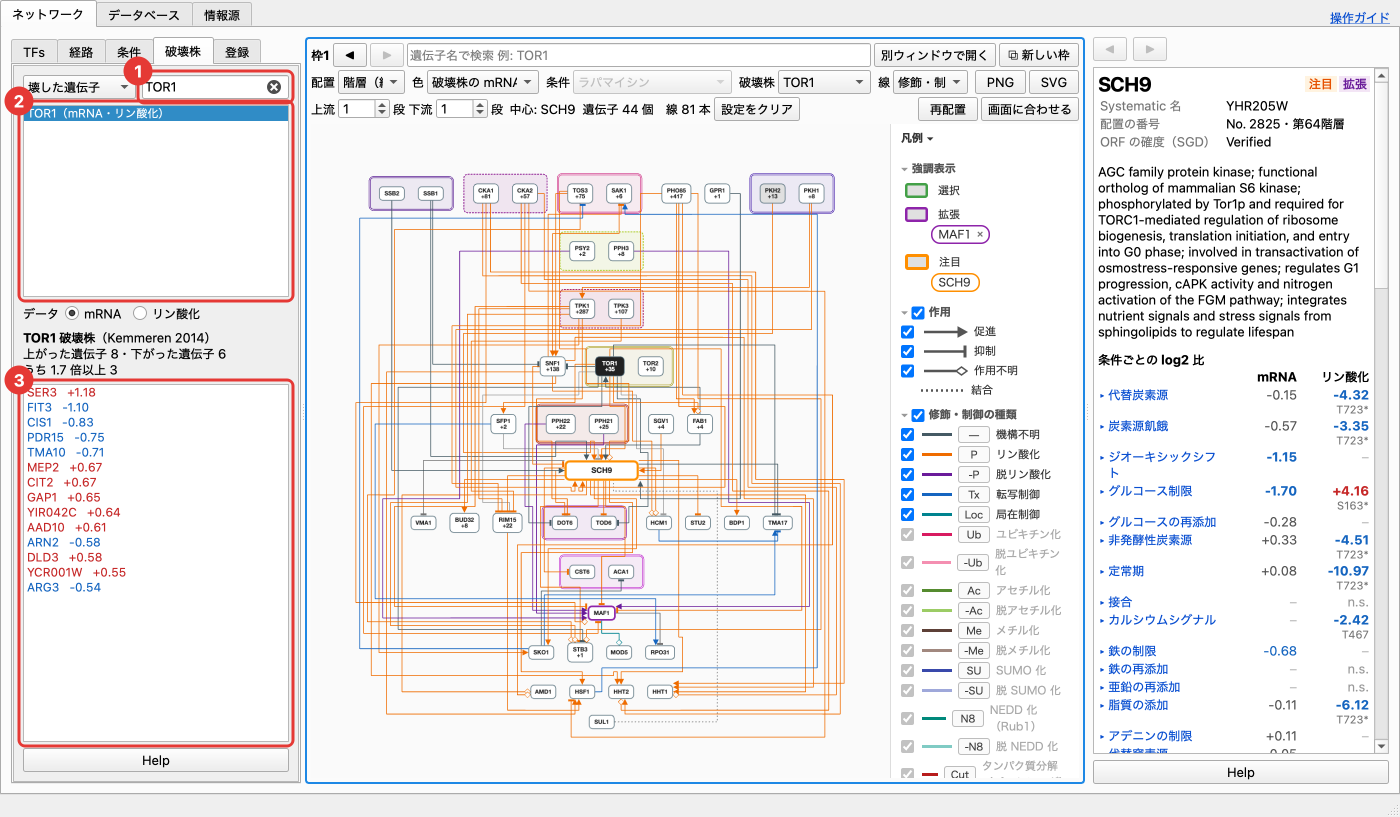
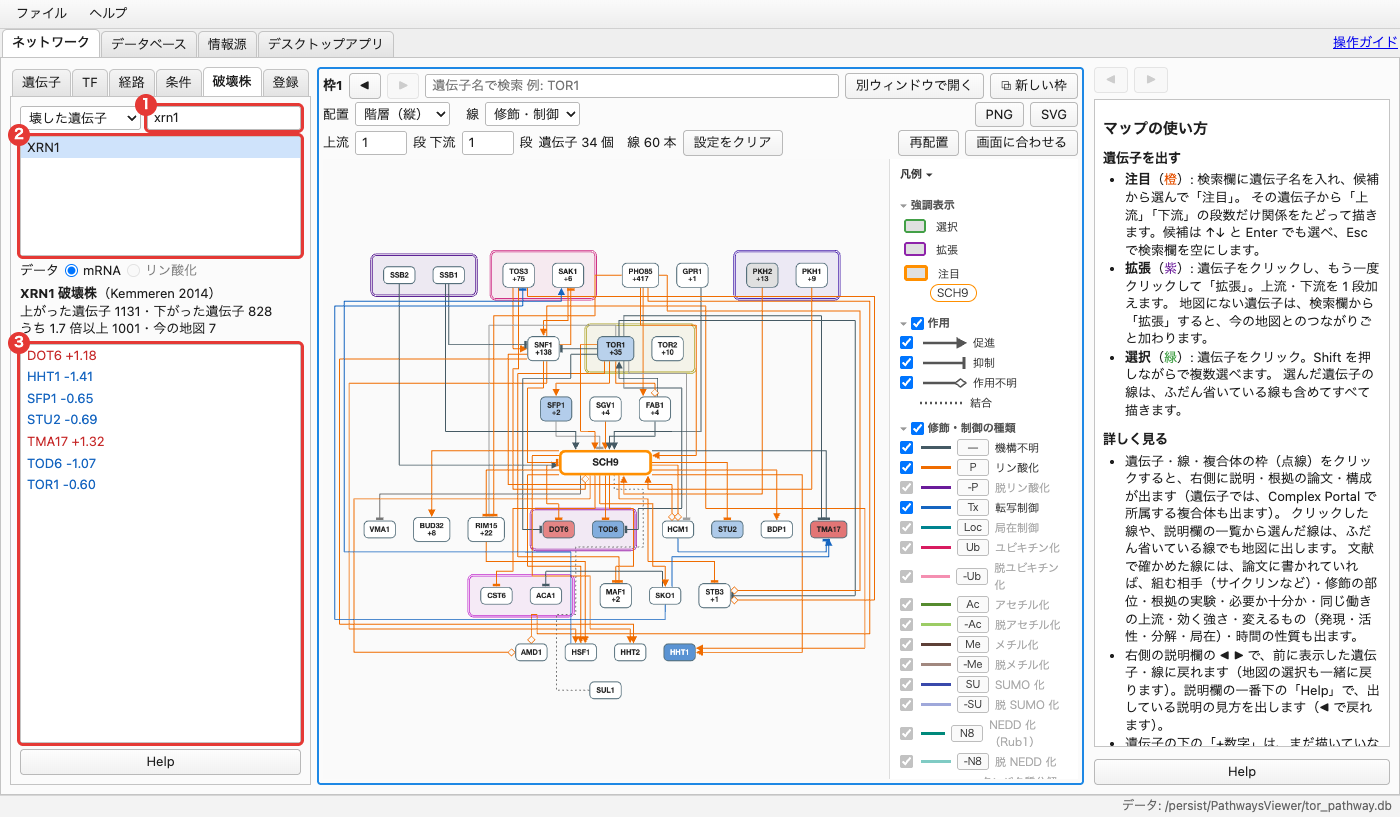
操作ガイドを今の画面に合わせる（遺伝子タブ・条件タブ・破壊株タブ・画面の写し）。破壊株で株を押しても色分けされないことがあったのを直す

Changed region(s): [[0.0, 0.0, 1.0, 1.0]]

diff --git a/tor_app/ui/network_tab.py b/tor_app/ui/network_tab.py
@@ -254,7 +254,9 @@ class NetworkTab(QWidget):
         i = self.del_strain_combo.findData(orf)
         if i < 0:
             return
+        self.del_strain_combo.blockSignals(True)
         self.del_strain_combo.setCurrentIndex(i)
+        self.del_strain_combo.blockSignals(False)
         self._color_by_deletion(kind)
 
     def data_js(self) -> str:
@@ -683,7 +685,11 @@ class NetworkTab(QWidget):
             kind = "del_mrna" if "mrna" in kinds else "del_phospho"
         i = self.del_strain_combo.findData(orf)
         if i >= 0:
+            # 株だけを先に変えると、色がまだ役割なので一覧の選択が外れてしまう（色を変えるときにまとめて送る）
+            self.del_strain_combo.blockSignals(True)
             self.del_strain_combo.setCurrentIndex(i)
+            self.del_strain_combo.blockSignals(False)
+            self._save_view()
         self._color_by_deletion(kind)
         self._sync_deletion_panel()
 

diff --git a/docs/MANUAL.md b/docs/MANUAL.md
@@ -6,6 +6,8 @@
 
 細かい決まり（並べ方・階層の決め方など）はアプリの中の「Help」ボタンと [README](../README.md) にまとめてあります。
 
+画面の写しのうち、1 章・6-1・6-4・6-5・7 章のものは今の版です。ほかは前の版のもので、地図の上の選択肢（「色」「条件」など）や左のタブの名前（「TFs」など）が今と違うことがありますが、操作は同じです。
+
 ---
 
 ## 目次
@@ -31,14 +33,14 @@
 
 ## 1. 画面の見取り図
 
-![起動直後の画面](manual/01_window.png)
+![SCH9 に注目した画面](manual/01_window.png)
 
 ネットワークタブの画面は、次の 5 つに分かれています（番号は画像の赤い丸）。
 
 | 番号 | 場所 | 役割 |
 |---|---|---|
-| 1 | **左側のタブ**（遺伝子・TF・経路・条件・破壊株・登録） | 地図に転写因子を加える、経路を調べる、条件で絞るなど、地図への追加の操作 |
-| 2 | **検索欄**（表示枠の上） | 遺伝子を探して地図に出す。下の 2 行は表示の設定 |
+| 1 | **左側のタブ**（遺伝子・TF・経路・条件・破壊株・登録） | 地図の遺伝子を一覧で選ぶ、転写因子を加える、経路を調べる、条件で目立たせる、破壊株の実測で色分けするなど |
+| 2 | **検索欄**（表示枠の上） | 遺伝子を探して地図に出す。下の 2 行は配置・線の色・段数などの設定 |
 | 3 | **地図** | 遺伝子（箱）と関係（線） |
 | 4 | **凡例**（地図の右端） | 色・線・記号の意味。チェックを外すと、その種類を地図から隠す |
 | 5 | **説明欄**（一番右） | クリックした遺伝子・線・枠の説明、根拠の論文 |
@@ -72,7 +74,7 @@
 
 ### 遺伝子（箱）
 
-- **箱の色**は役割です（キナーゼ・ホスファターゼ・転写制御因子など。SGD の機能説明から推定した目安）。色の意味は凡例の「役割」欄にあります。
+- **箱の色**は役割です（キナーゼ・ホスファターゼ・転写制御因子など。SGD の機能説明から推定した目安）。色の意味は凡例の「役割」欄にあります。左の「破壊株」タブで株を選んでいる間だけ、その株での実測の色になります（[6-5](#6-5-破壊株--壊した株での実測を見る)）。
 - **「+数字」**は、まだ地図に描いていない下流の数です。
 - **箱の横幅**は、その遺伝子が持つ関係の数（地図で省いている関係も含む）で決まります。幅の広い箱はハブです。
 - 地図は**上流ほど上の段**に並びます（配置「階層（縦）」のとき）。
@@ -111,6 +113,7 @@
 - 選んだ遺伝子とつながる遺伝子・線だけが濃く残り、ほかは薄くなります。ふだん省いている線も、選んだ遺伝子の分はすべて描きます。
 - **Shift を押しながら**クリックすると、複数選べます。
 - **背景をクリック**すると、選択と強調が外れます。
+- 左の「遺伝子」タブの一覧からも選べます（[6-1](#6-1-遺伝子--地図の遺伝子を一覧で選ぶ)）。
 
 説明欄には、Systematic 名・SGD の機能説明・条件ごとの発現とリン酸化の変化（log2 比）・上流と下流の一覧などが出ます。説明欄の一番下の Help で、各項目の見方を出せます。
 
@@ -178,9 +181,11 @@
 | ボタン | 働き |
 |---|---|
 | 上流・下流の段数 | 注目した遺伝子から何段たどるか |
-| 設定をクリア | TF・経路・条件・配置・色・線・凡例を最初の状態に戻す（注目・拡張・段数はそのまま） |
+| 設定をクリア | TF・経路・条件・配置・遺伝子の色・線・凡例を最初の状態に戻す（注目・拡張・段数はそのまま） |
 | 再配置 | 今の注目・拡張・段数から地図を描き直す |
-| 画面に合わせる | 図全体が収まるように表示する |
+| 画面に合わせる | 図全体が収まるように表示する（緑で選んでいれば、その選択と線の表示はそのまま） |
+
+遺伝子の色は、ここではなく左のタブで変えます（破壊株タブで株を選ぶと、その株の実測の色。選択をやめると役割の色に戻ります）。
 
 ### 表示枠を増やす
 
@@ -208,10 +213,13 @@
 
 ### 6-1. 遺伝子 — 地図の遺伝子を一覧で選ぶ
 
-今の地図にある遺伝子が名前の順に並びます。上の欄に名前を入れると絞り込めます。
+![遺伝子タブ。①今の地図の遺伝子が「注目」「拡張」「そのほか」に分かれて並ぶ](manual/18_genes.png)
+
+今の地図にある遺伝子が、「**注目**」（橙）・「**拡張**」（紫）・「**そのほか**」の見出しで分けて、それぞれ名前の順に並びます（括弧の中は数）。上の欄に名前を入れると絞り込めます。
 
 - 遺伝子を押すと、地図でその遺伝子を緑で選択し、右側に説明を出します。地図で緑に選んだ遺伝子は、一覧でも選ばれます。
-- Shift・⌘（Windows は Ctrl）を押しながら押すと、複数を選べます。
+- 緑で選んでいる遺伝子を**もう一度押す**と、地図がその遺伝子へ移って拡大します（凡例の名前を押したときと同じ）。
+- ⌘（Windows は Ctrl）を押しながら押すと 1 つずつ、Shift を押しながら押すと範囲で、複数を選べます。
 
 ### 6-2. TF — 転写因子を地図に加える
 
@@ -263,9 +271,9 @@
 
 ### 6-4. 条件 — どんな条件で報告された関係か
 
-![条件タブ（①）で「浸透圧ストレス」と「薬剤・化学物質」だけにチェックしたところ。その条件の線と両端の遺伝子だけが残る](manual/10_conditions.png)
+![条件タブの「経路」で「すべて解除」し、①「熱ショック」と「薬剤・化学物質」にチェックしたところ。その条件の線と両端の遺伝子だけが残り、②下の欄にその線が並ぶ](manual/10_conditions.png)
 
-左上の選択肢で、見るものを「**経路**」と「**遺伝子**」で切り替えます。どちらも、上に条件の一覧（群で開閉）、中ほどに見方、下に今の地図のもの、の同じ形で、右の欄に名前を入れると条件を絞り込めます。遺伝子は [7 章](#7-条件ごとの発現リン酸化を見る) を見てください。以下は経路です。
+左上の選択肢で、見るものを「**経路**」と「**遺伝子**」で切り替えます。どちらも、上に条件の一覧（群で開閉。灰色の条件はチェックも薄く出ます）、中ほどに「すべて選択」「すべて解除」などの見方、下に今の地図のもの、の同じ形です。右の欄に名前を入れると条件を絞り込めます。遺伝子は [7 章](#7-条件ごとの発現リン酸化を見る) を見てください。以下は経路です。
 
 関係（線）が**どんな条件で報告されたか**（ストレス・栄養・細胞周期の時期など）で、地図を絞ります。条件の分け方は YEASTRACT+ の環境条件に合わせ、細胞周期の時期（G1・S・G2・分裂期など）を加えています。
 
@@ -280,16 +288,16 @@
 
 ### 6-5. 破壊株 — 壊した株での実測を見る
 
-![①壊した遺伝子の名前（TOR1）を入れ、②株を選ぶと、地図がその株の実測で色分けされ（TOR1 自身は黒）、③変わった遺伝子が並ぶ](manual/11_deletion.png)
+![①壊した遺伝子の名前（XRN1）を入れ、②株を押すと、地図がその株の実測で色分けされ、③その株で変わった今の地図の遺伝子が並ぶ](manual/11_deletion.png)
 
 遺伝子を 1 つ壊した株で、ほかの遺伝子の mRNA やリン酸化が**実際にどう変わったか**（野生型との比の実測）を地図で見ます。
 
 - **探し方**（左上の選択肢）:
-  - **壊した遺伝子**: 破壊株が名前の順に並び、右の欄に名前を入れると、その名前を含む株に絞り込みます。株を押すと、地図をその株の実測で色分けし、下の欄にその株で変わった、今の地図の遺伝子が名前の順に出ます。
-  - **変化した遺伝子**: 今の地図の遺伝子が名前の順に並び（右の欄で絞り込めます）、遺伝子を押すと、その遺伝子を変化させた破壊株が並びます。その遺伝子の上流にある遺伝子の候補を、実測から探せます。
+  - **壊した遺伝子**: 破壊株が名前の順に並び、右の欄に名前を入れると、その名前を含む株に絞り込みます。株を押すと、地図をその株の実測で色分けし、下の欄にその株で変わった、**今の地図の遺伝子**が名前の順に出ます（見出しに、全体の数と今の地図の数）。
+  - **変化した遺伝子**: 今の地図の遺伝子が名前の順に並び（右の欄で絞り込めます）、遺伝子を押すと右側にその説明が出て、下の欄にその遺伝子を変化させた破壊株が名前の順に並びます。株を押すと地図をその株で色分けし、右側に壊した遺伝子の説明が出ます。その遺伝子の上流にある遺伝子の候補を、実測から探せます。
 - 株の一覧では、今の地図の遺伝子が変わった株を黒、1 つも変わっていない株を灰色で表示します。
 - **データ**: mRNA（Deleteome、Kemmeren et al. 2014、1,481 株）と、リン酸化（Bodenmiller et al. 2010、キナーゼ・ホスファターゼの 113 株）を切り替えます。
-- 地図の色: 赤＝増えた、青＝減った、黒＝壊した遺伝子。色分けしている株をもう一度押すなどして、破壊株タブで株の選択が外れると、役割の色に戻ります。
+- 地図の色: 赤＝増えた、青＝減った、黒＝壊した遺伝子。色分けしている株をもう一度押す、絞り込みで株が一覧から消える、「変化した遺伝子」に切り替える、のどれかで株の選択が外れると、役割の色に戻ります。
 - 破壊の影響には間接のもの（X → Z → Y）も混ざります。Deleteome は富栄養の培地の測定なので、ストレスのときだけ働く遺伝子は、壊しても変わらないことがあります。
 
 ### 6-6. 登録 — よく見る地図を保存する
@@ -308,6 +316,8 @@
 ---
 
 ## 7. 条件ごとの発現・リン酸化を見る
+
+![条件タブの①「遺伝子」で「すべて解除」し、②「ストレス」の群にチェックしたところ。そのどれかで 2 倍以上変化した遺伝子だけが目立ち、③下の欄に値と条件が並ぶ](manual/13_expression.png)
 
 左の「**条件**」タブの左上を「**遺伝子**」に切り替え、「データ」で mRNA・リン酸化・タンパク質を選びます。チェックした条件（いくつでも。群のチェック・「すべて選択」「すべて解除」でまとめて切り替え）のどれかで **2 倍以上変化した遺伝子** だけを目立たせ、ほかは薄くします。すべてにチェックしていれば普段の地図です。地図の色は変えません。
 
@@ -348,14 +358,20 @@
 
 ### 例 3: ストレス条件で働く関係だけを見る
 
-1. 左の「条件」タブで「すべて解除」。
-2. 「ストレス」を ▸ で開き、黒く表示されている条件（例: 浸透圧ストレス）にチェック。
-3. 地図に残った線をクリックして、説明欄の「条件」と根拠を確かめる。
+1. 左の「条件」タブ（左上は「経路」）で「すべて解除」。
+2. 「ストレス」を ▸ で開き、黒く表示されている条件（例: 熱ショック）にチェック。
+3. 下の欄の線や、地図に残った線をクリックして、説明欄の「条件」と根拠を確かめる。
 
-### 例 4: ある遺伝子を壊したとき、地図のどこが変わるかを見る
+### 例 4: ストレスで発現が大きく変わる遺伝子を見る
 
-1. 左の「破壊株」タブで、壊した遺伝子の名前（例: `TOR1`）を入れて株を選ぶ。
-2. 地図が実測の変化（赤・青）で塗られる。下の欄の遺伝子を押すと説明が出る。
+1. 左の「条件」タブの左上を「遺伝子」に切り替え、「データ」を mRNA にする。
+2. 「すべて解除」してから、「ストレス」の群にチェック。
+3. 目立った遺伝子と、下の欄の値（どの条件で何倍変わったか）を見る。遺伝子を押すと、説明欄に全部の条件の値が出る。
+
+### 例 5: ある遺伝子を壊したとき、地図のどこが変わるかを見る
+
+1. 左の「破壊株」タブで、壊した遺伝子の名前（例: `XRN1`）を入れて株を押す。
+2. 地図が実測の変化（赤・青）で塗られ、下の欄に変わった今の地図の遺伝子が並ぶ。遺伝子を押すと説明が出る。
 3. 終わったら、色分けしている株をもう一度押す（選択が外れ、役割の色に戻る）。
 
 ---
@@ -367,7 +383,9 @@
 | 地図が込み入って読めない | 段数を 1 に減らす、凡例で関係の種類を絞る、「再配置」を押す、「画面に合わせる」で全体を見る |
 | 線を描く前に確認が出た | 描く線が多いときの確認です。「キャンセル」で前の表示に戻ります |
 | 元の状態に戻したい | ◀ で戻る。設定だけ戻すなら「設定をクリア」 |
-| 地図が薄くなったまま戻らない | 背景をクリックする。条件タブで「すべて選択」、経路タブで表示経路を「OFF」にする |
+| 地図が薄くなったまま戻らない | 背景をクリックする。条件タブで「すべて選択」（「経路」「遺伝子」それぞれ）、経路タブで表示経路を「OFF」にする |
+| 遺伝子の色が役割に戻らない | 破壊株タブで、色分けしている株をもう一度押す |
 | 探している遺伝子が出ない | Systematic 名（例: YHR205W）でも探す。データベースタブで名前を検索する |
-| 色分けが灰色ばかり | その条件・株にデータがない遺伝子です。条件タブ（遺伝子）や破壊株タブで、ほかの条件・株を選んでみる |
+| 色分けが灰色ばかり | その株にデータがない遺伝子です。破壊株タブで、ほかの株を選んでみる |
+| 条件タブ（遺伝子）で目立つ遺伝子がない | チェックした条件で 2 倍以上変わった遺伝子が今の地図にありません。条件を増やすか、「データ」を変えてみる |
 | 使い方を確かめたい | 各欄の一番下の「Help」、またはメニューの「ヘルプ > 使い方」 |
